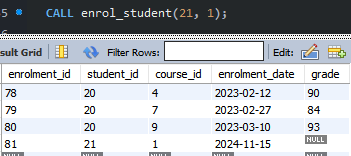
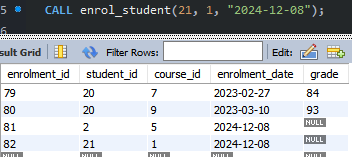
updated documentation

diff --git a/Documentation/Documentation.md b/Documentation/Documentation.md
@@ -67,7 +67,7 @@ If you wanted to enrol a student onto a course - for example, lets say there was
 ![New Student Added to the School](Screenshots/new_student.png)\
 ![New Student Has No Courses](Screenshots/new_student_courses1.png)
 
-you can use the stored procedure `enrol_student`, which takes the student's ID and the course ID to insert a record into `enrolment`. The procedure will also insert the current date into the record as the date enrolled.
+you can use the stored procedure `enrol_student`, which takes the student's ID, course ID and a date to insert a record into `enrolment`.
 
 ![Enrol Student Procedure](Screenshots/enrol_student.png)
 
